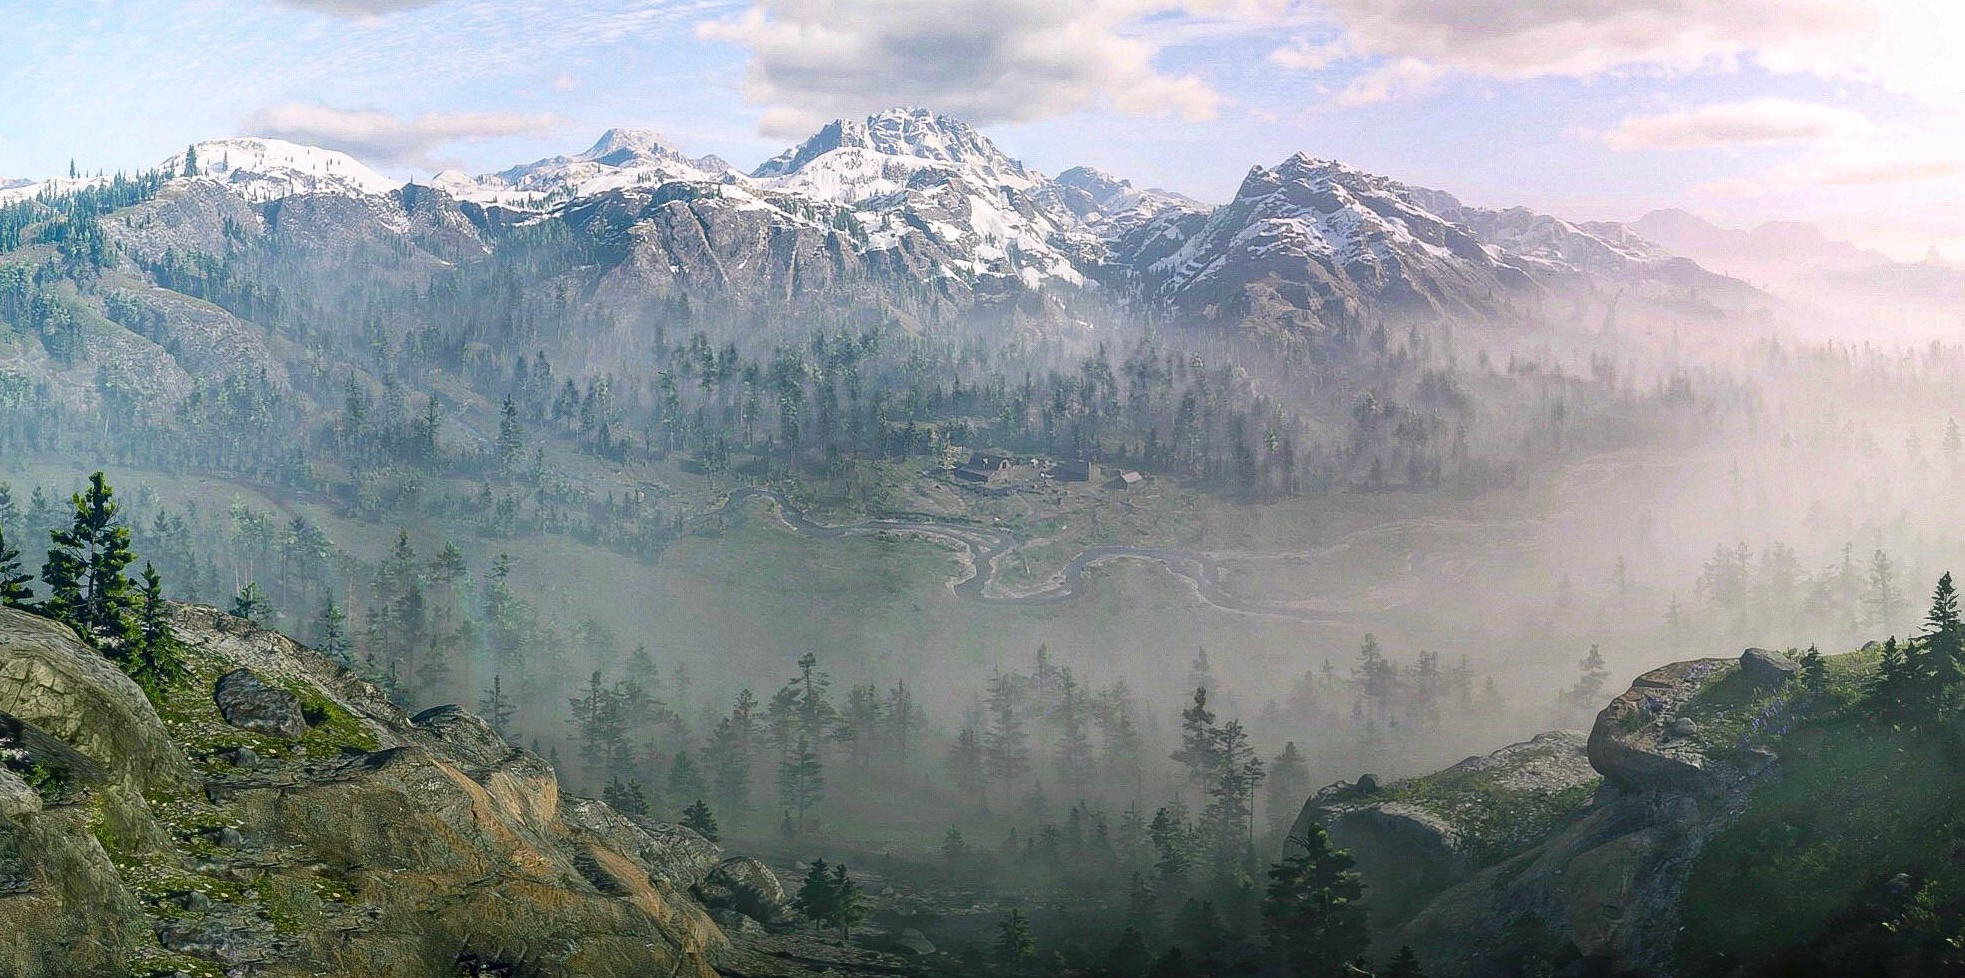
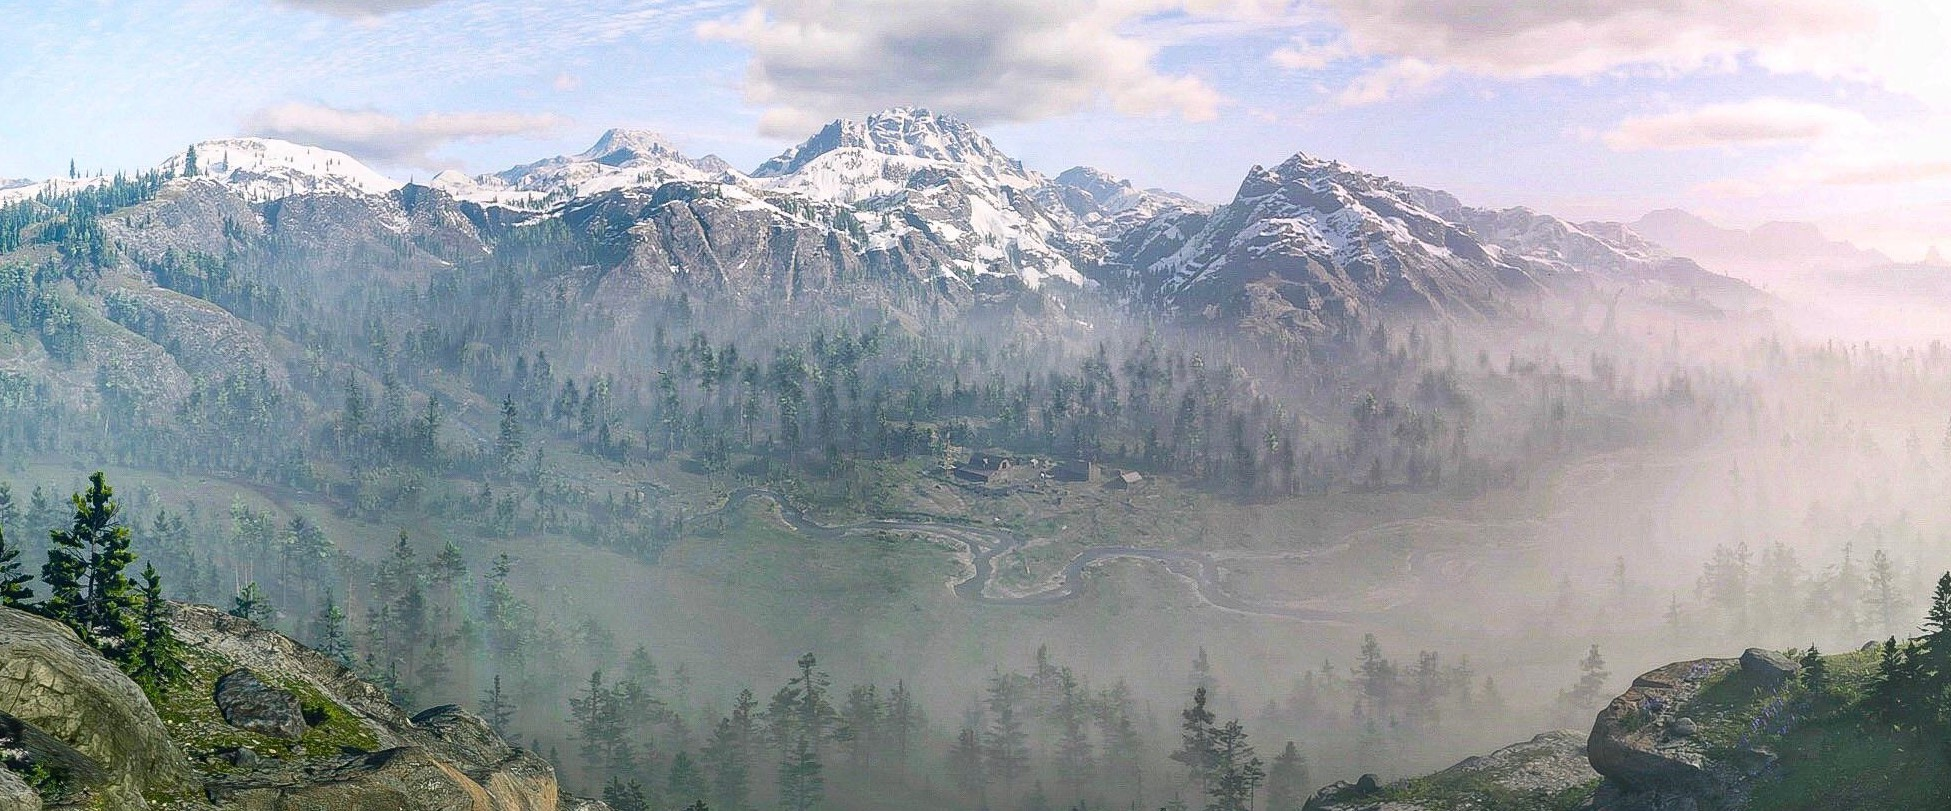
updated img size and finished basics of last cards

diff --git a/index.html b/index.html
@@ -82,6 +82,42 @@
             </div>
         </div>
     </div>
+
+    <div class="col-6">
+        <div class="container">
+            <img class="cardImg" src="https://i.redd.it/97iwkdjdqxz31.jpg" alt="Desert sky">
+            <div class="column">
+                <h2>Two Column Left Side</h2>
+                <p>Lorem ipsum, dolor sit amet consectetur adipisicing elit. Debitis labore illo ab impedit, illum ut
+                    molestiae, et voluptatem provident nisi praesentium explicabo tempore dignissimos quo eligendi
+                    commodi error! Voluptatum, ducimus.
+                    Lorem ipsum dolor sit amet consectetur adipisicing elit.</p>
+                <p>
+                    Aliquam molestias dolorum nesciunt! Illo, natus qui fuga inventore aliquid sequi odit fugiat nisi
+                    ratione, fugit, a laudantium dicta ipsam maiores mollitia!A recusandae laudantium, minus nemo sed
+                    quae architecto. Voluptatibus labore ex id facere nemo cumque harum, voluptas soluta, aliquid rerum
+                    ab nesciunt ipsum itaque atque voluptate earum? Quisquam, facilis qui?</p>
+            </div>
+        </div>
+    </div>
+    <div class="col-6">
+        <div class="container">
+            <img class="cardImg" src="https://i.redd.it/e94d88f9wor31.jpg" alt="Forest Sky">
+            <div class="column">
+                <h2>Two Column Right Side</h2>
+                <p>Facere unde veniam
+                    maiores voluptates quis quas suscipit, nemo inventore aspernatur
+                    nobis ipsam harum. Quasi delectus explicabo
+                    sit praesentium similique commodi quia optio provident perferendis voluptatem perspiciatis sunt!</p>
+                <p>Lorem, ipsum dolor sit amet consectetur adipisicing elit. Expedita provident, asperiores assumenda
+                    totam fugiat natus eaque officia quod dolorum ex repellendus? Inventore impedit ea sed voluptatem
+                    quae dolores recusandae ad?</p>
+                <div class="button">
+                    <button class="button">Read More</button>
+                </div>
+            </div>
+        </div>
+    </div>
 </body>
 
 </html>

diff --git a/style.css b/style.css
@@ -187,3 +187,23 @@ body {
     font-size: 100%;
     cursor: pointer;
 }
+
+.column {
+    padding: 0px 20px 20px 20px;
+}
+
+.column h2 {
+    text-align: center;
+    color: grey;
+}
+
+.column button {
+    color: grey;
+    border-style: solid;
+    padding: 10px;
+    border-radius: 5px;
+    font-size: 100%;
+    cursor: pointer;
+    border-color: darkgrey;
+    margin-left: 40%;
+}
